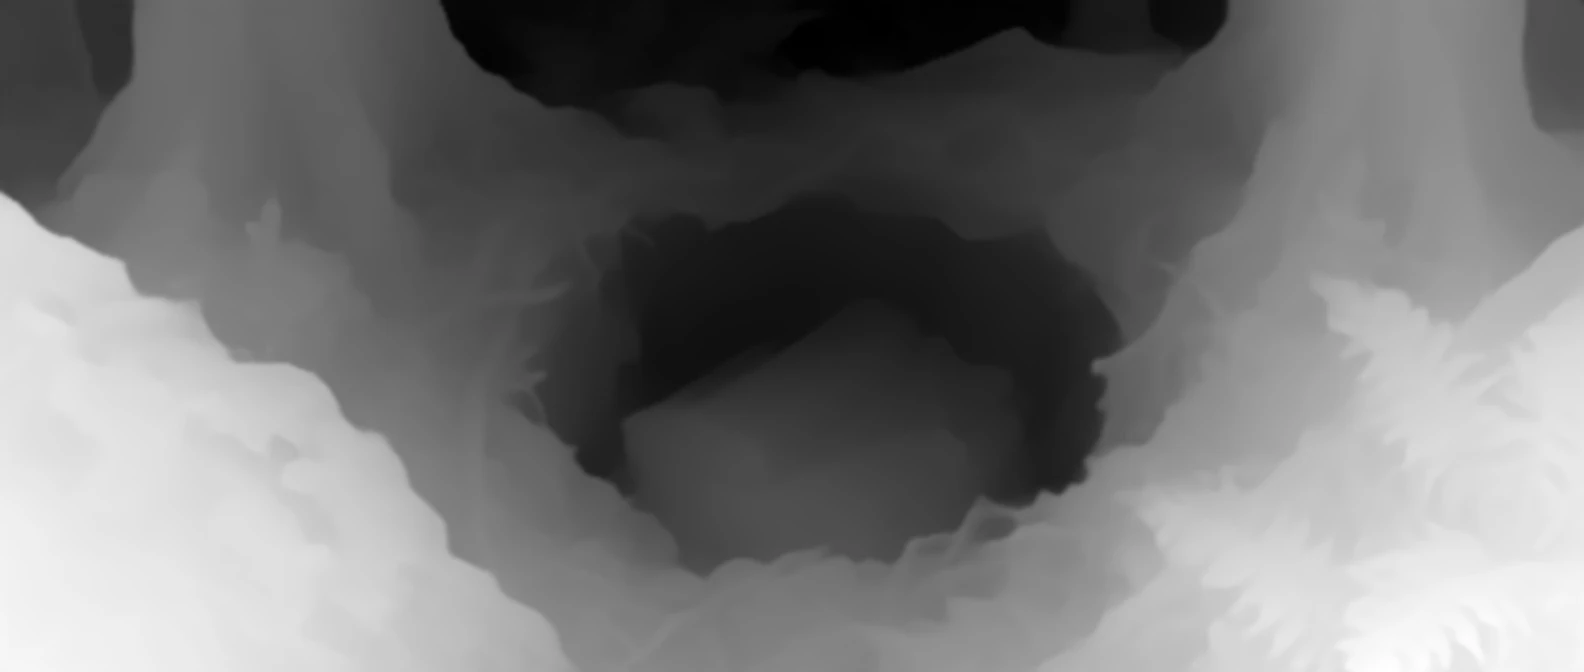
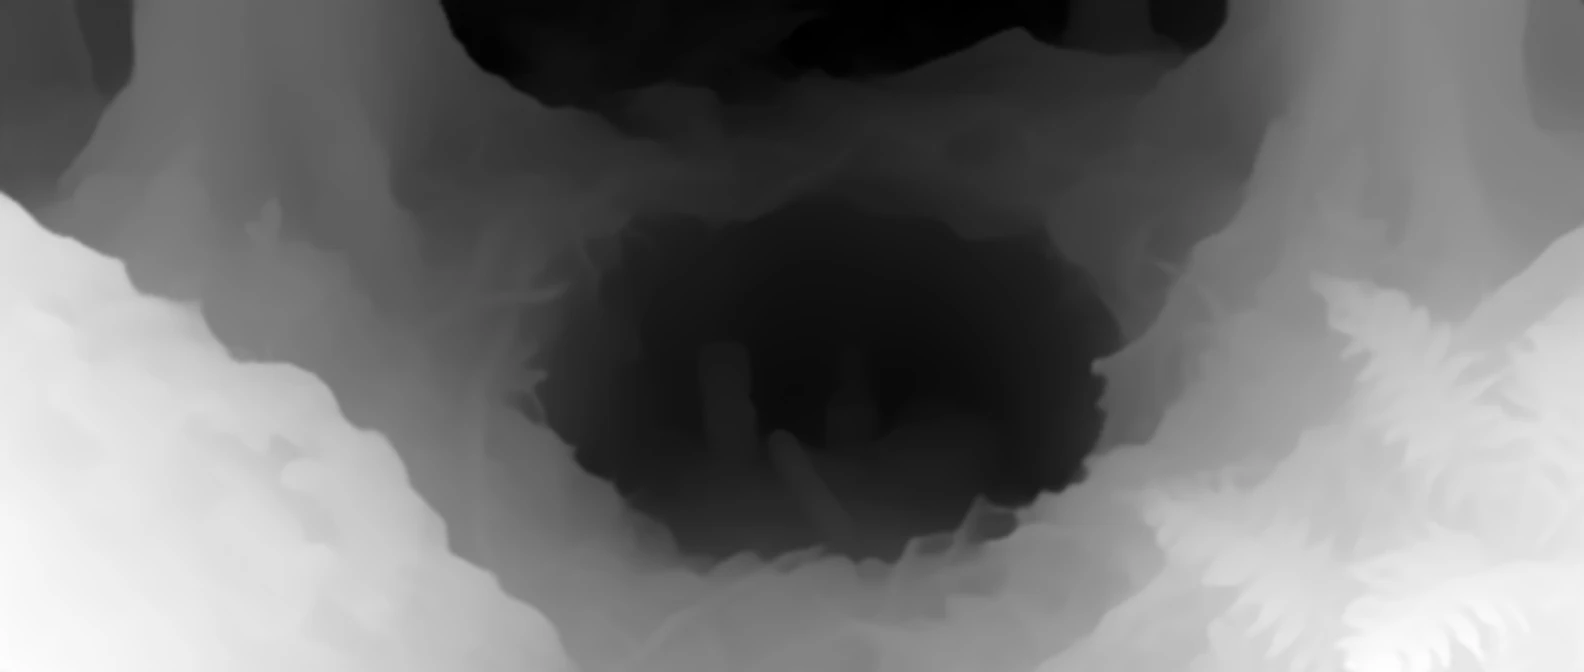
bottino v9: fantasy knick-knack stash (idol, vial, whistle, copper coins) — Director pick A

Changed region(s): [[0.3712, 0.5, 0.6496, 0.8438], [0.959, 0.0, 1.0, 0.1875]]

diff --git a/.mw/specs/quest-goblin-scenes/scenes/f2-bottino/prompt.md b/.mw/specs/quest-goblin-scenes/scenes/f2-bottino/prompt.md
@@ -29,7 +29,7 @@ stona. Gli oggetti enumerati diventano sempre il soggetto.
 ## Full prompt
 
 ```text
-HIDDEN CACHE — A masterful cinematic oil painting in heavy textured impasto: thick, violent palette-knife strokes, visible layers of paint adding physical depth. A pit sunk in the forest floor, seen from above — and inside, goods a merchant would kill for: ROLLS OF FINE SILK. SUBJECT: at lower-center an unmistakable hollow dug between root flares — its rim of wrenched roots and pushed-back litter; dark tanned hides drawn back at one edge so the pit's interior falls to real depth and saturated shadow; and there, tucked in that shadow, several fabric bolts packed tight — the end of one bolt rolled out just enough to show its colors: a crimson-cinnabar edge, an indigo band, a fold of warm amber cloth — trade goods worth selling, unmistakably valuable, unmistakably hidden. One coin or brass clasp catches a sliver of dappled light at the silk's edge — the tell that guides the eye in. Around the pit, undisturbed undergrowth: emerald moss, bright ferns, root bark, ochre litter as accent not carpet. COMPOSITION: no horizon — the world is the floor; the pit is the dark focal mouth off-center; the silk colors and the gleam are the brightest notes in frame; a mossy bank occludes the lower-left edge. LIGHTING: dappled midday sun — the litter glints, the pit stays in saturated teal shade except the silk edges and the struck clasp. PALETTE: emerald moss and veronese-green undergrowth dominant, ultramarine in the pit's depth, deep teal-emerald every shadow, the silk bolts cinnabar-red, indigo and amber — NO grey, NO brown dominance, NO mud. The frame stays luminous and high-chroma — light wins over darkness, even the deepest shadow is saturated color, never black murk. TECHNIQUE: Jaime Jones broad oil strokes, Jeff Easley weight — the silk painted as folded ribbons of saturated color, tactile moss, root, bark — the world rendered as rude beauty, weathered and tactile, never squalid. MOOD: patience rewarded + the quiet thrill of the find. NO books or rectangular objects, NO grey desaturated bundle, NO chest or kettle or scattered goods, NO excavated earth ring, NO people, NO creatures, NO faces, NO fog painted, NO light shafts, NO smoke, NO grim, NO gore, NO decay, NO mud, NO symmetry, NO flat digital, NO airbrushed smoothness, NO sci-fi, NO text/UI/watermarks/frames/signatures/logos. 21:9 cinematic scope.
+HIDDEN CACHE — A masterful cinematic oil painting in heavy textured impasto: thick, violent palette-knife strokes, visible layers of paint adding physical depth. A pit sunk in the forest floor, seen from above — and inside, a humble smuggler's stash worth a pocketful: INTERESTING FANTASY KNAWS. SUBJECT: at lower-center an unmistakable hollow dug between root flares — its rim of wrenched roots and pushed-back litter; dark tanned hides drawn back at one edge so the pit's interior falls to real depth and saturated shadow; and there, tucked in that shadow, a modest stash of curiosities: a small carved wooden idol with amber eyes, a clutch of dull brass and copper amulets strung on a cord, a green-glass vial of something glowing faintly, a bone-carved whistle, a fat lumpy coin-purse of cheap leather with a few copper coins spilling — the resale-able junk a fence would buy, nothing noble, nothing glowing gold. One dull metal edge catches a sliver of dappled light — the tell. Around the pit, undisturbed undergrowth: emerald moss, bright ferns, root bark, ochre litter as accent not carpet. COMPOSITION: no horizon — the world is the floor; the pit is the dark focal mouth off-center; the stash and the gleam are the brightest notes; a mossy bank occludes the lower-left edge. LIGHTING: dappled midday sun — the litter glints, the pit stays in saturated teal shade except the odd metal edges. PALETTE: emerald moss and veronese-green undergrowth dominant, ultramarine in the pit's depth, deep teal-emerald every shadow, the stash accents dull copper and bone-amber — NO grey, NO brown dominance, NO mud. The frame stays luminous and high-chroma — light wins over darkness, even the deepest shadow is saturated color, never black murk. TECHNIQUE: Jaime Jones broad oil strokes, Jeff Easley weight — the knick-knacks painted as small textured dabs, tactile moss, root, bark — rude beauty, weathered and tactile, never squalid. MOOD: patience rewarded + the quiet thrill of the find. NO books or rectangular objects, NO grey desaturated bundle, NO chest, NO gold or jewels, NO silk bolts, NO excavated earth ring, NO people, NO creatures, NO faces, NO fog painted, NO light shafts, NO smoke, NO grim, NO gore, NO decay, NO mud, NO symmetry, NO flat digital, NO airbrushed smoothness, NO sci-fi, NO text/UI/watermarks/frames/signatures/logos. 21:9 cinematic scope.
 ```
 
 ## Generation notes
